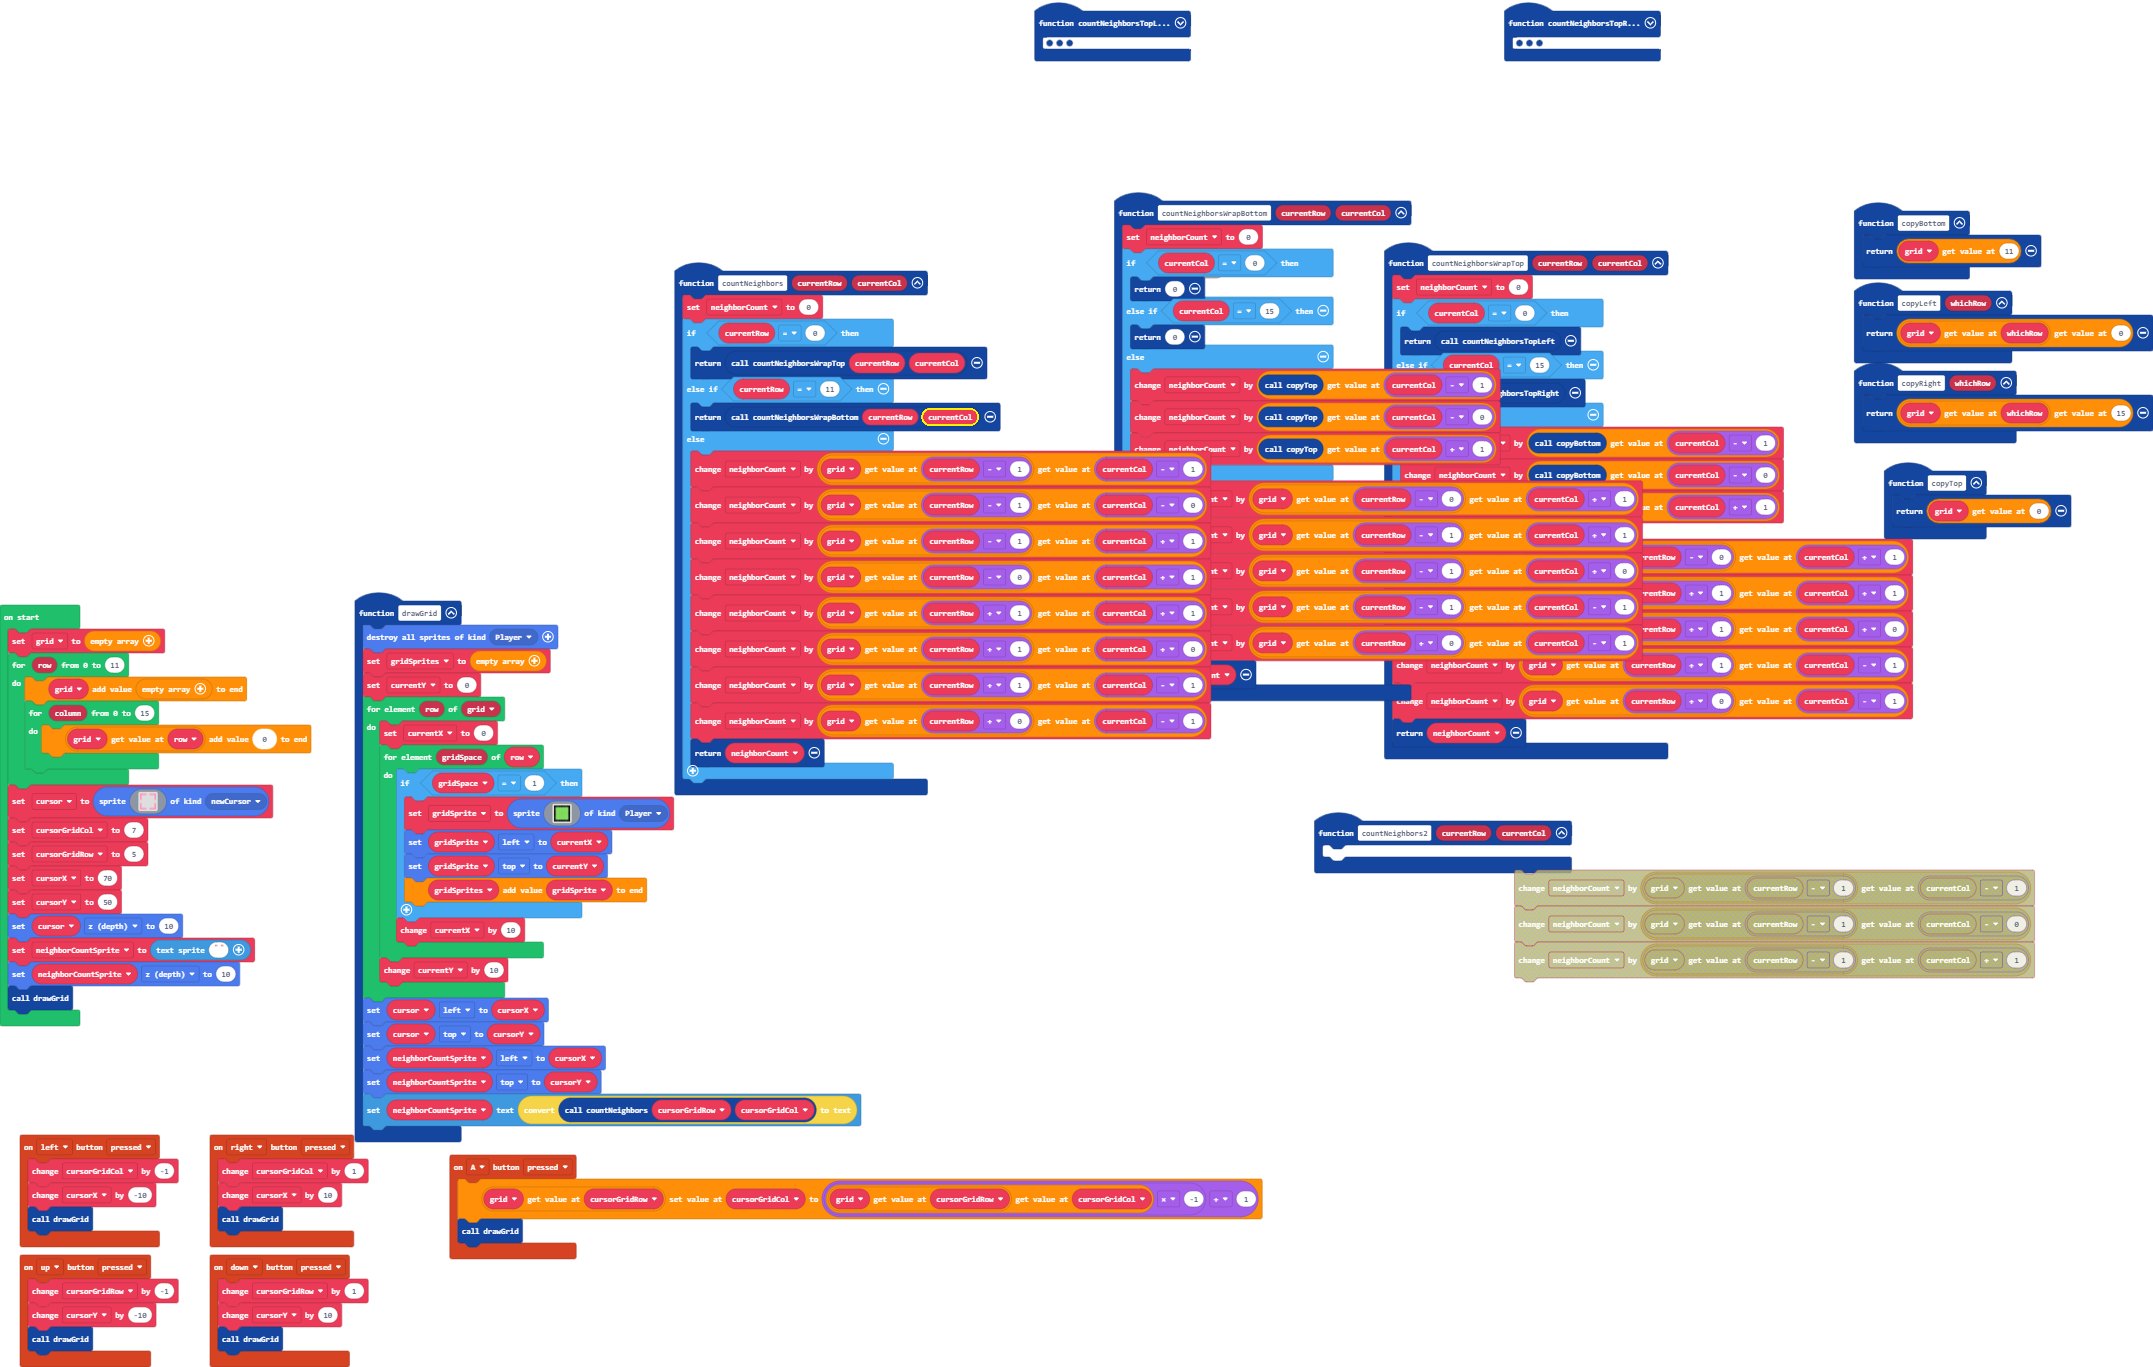
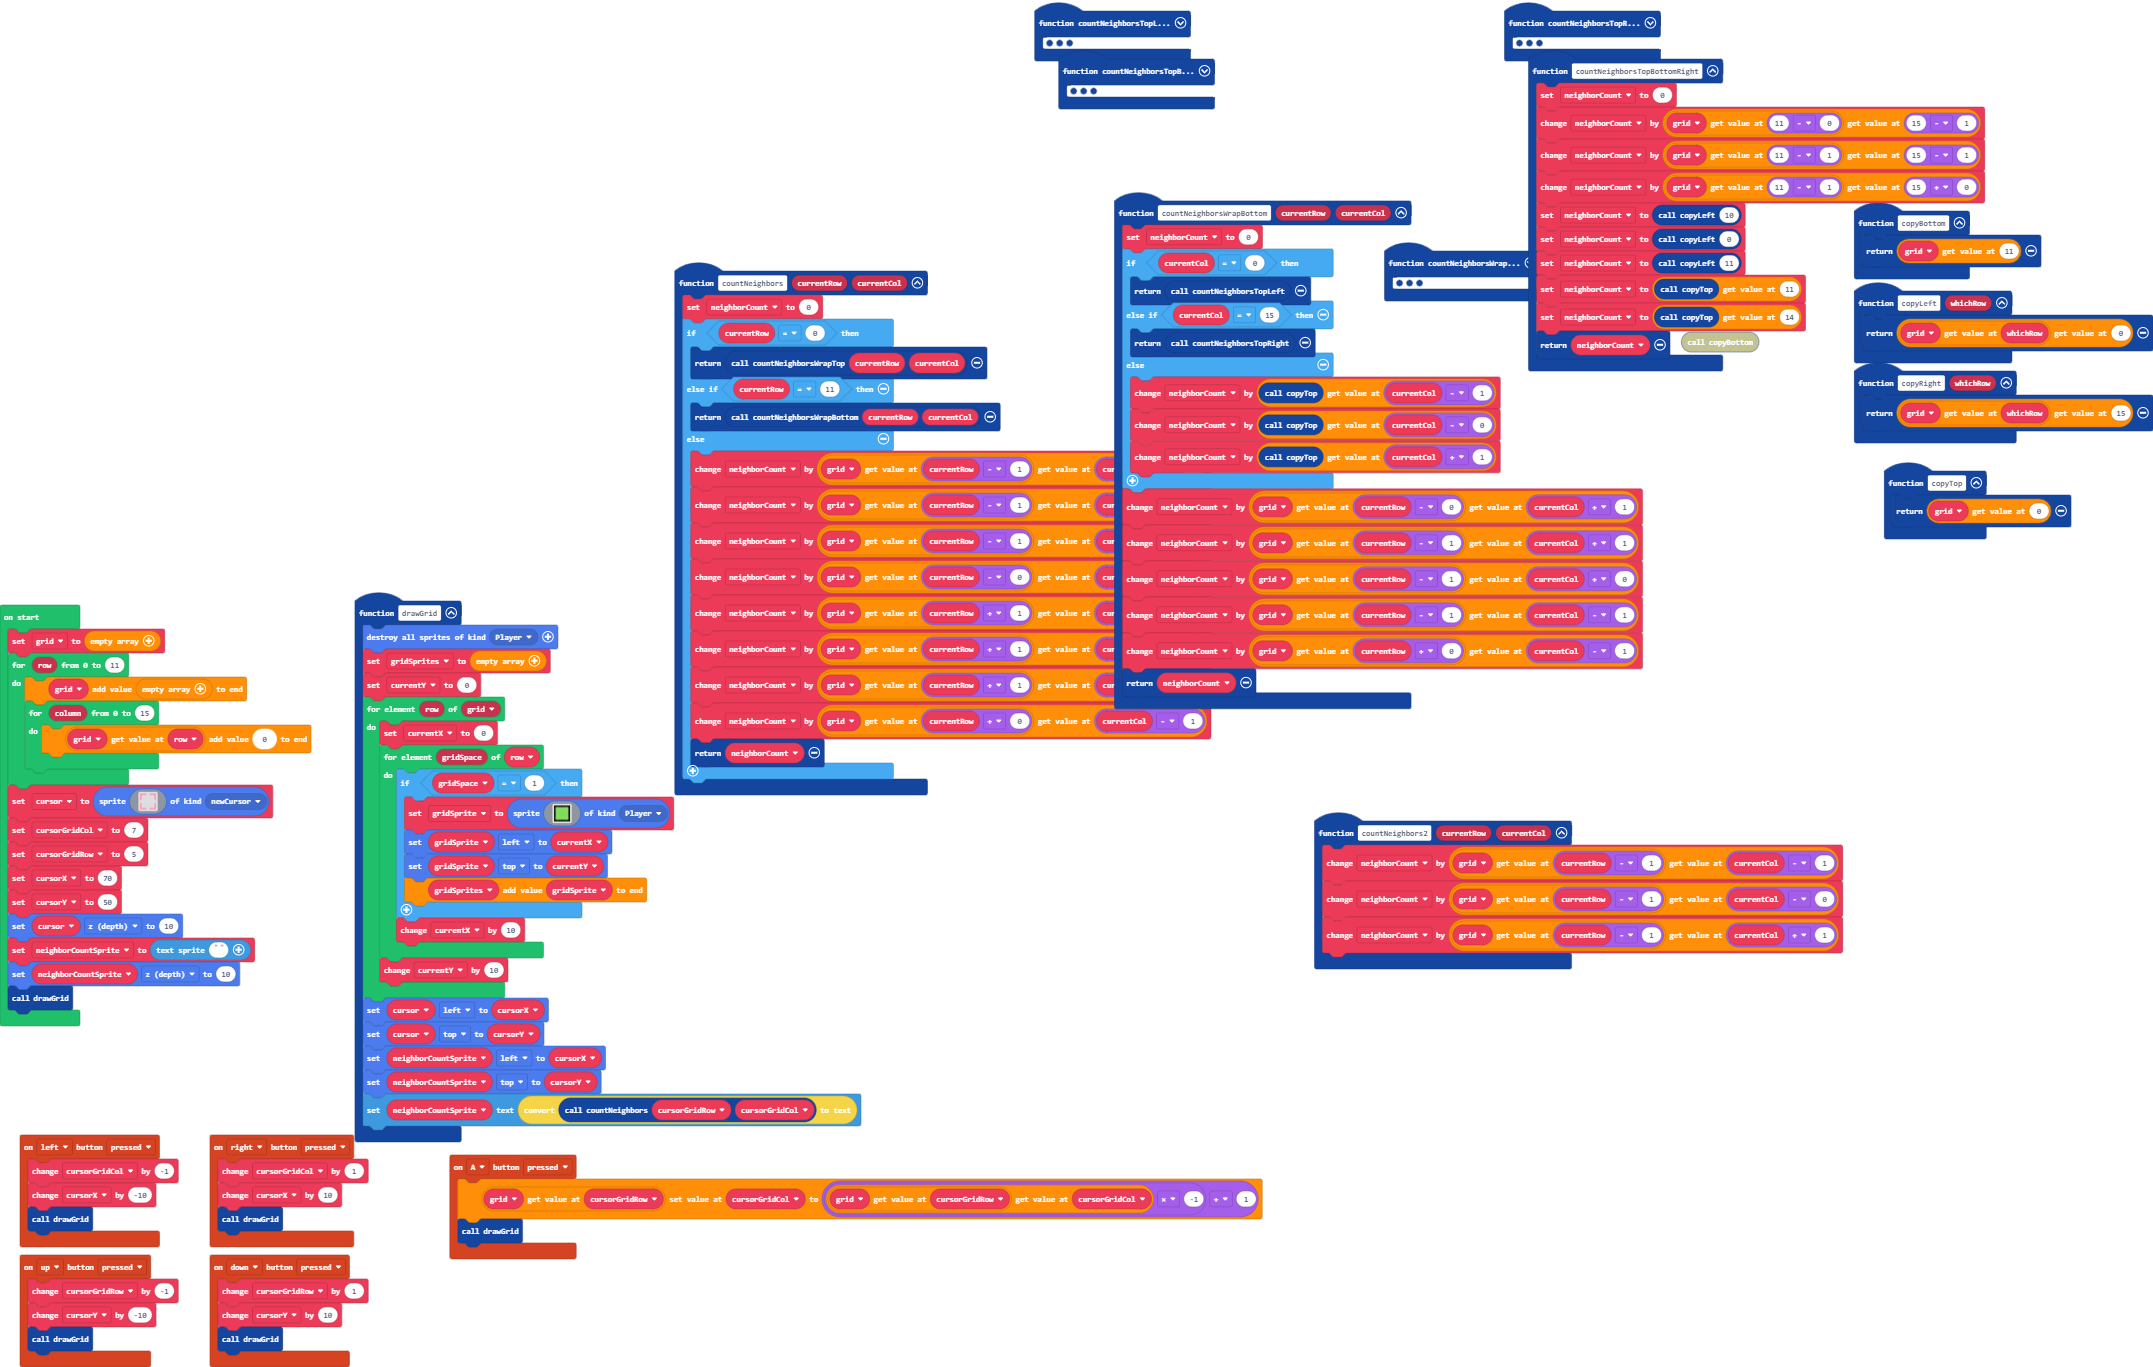
wrap bottom left and right

Changed region(s): [[0.4979, 0.0307, 0.9336, 0.553], [0.5913, 0.6145, 0.9647, 0.7374], [0.4668, 0.0307, 0.5601, 0.0922]]

diff --git a/main.ts b/main.ts
@@ -2,6 +2,18 @@ namespace SpriteKind {
     export const cursor = SpriteKind.create()
     export const newCursor = SpriteKind.create()
 }
+function countNeighborsTopBottomRight () {
+    neighborCount = 0
+    neighborCount += grid[11 - 0][15 - 1]
+    neighborCount += grid[11 - 1][15 - 1]
+    neighborCount += grid[11 - 1][15 + 0]
+    neighborCount = copyLeft(10)
+    neighborCount = copyLeft(0)
+    neighborCount = copyLeft(11)
+    neighborCount = copyTop()[11]
+    neighborCount = copyTop()[14]
+    return neighborCount
+}
 controller.up.onEvent(ControllerButtonEvent.Pressed, function () {
     cursorGridRow += -1
     cursorY += -10
@@ -17,13 +29,27 @@ controller.left.onEvent(ControllerButtonEvent.Pressed, function () {
     drawGrid()
 })
 function countNeighbors2 (currentRow: number, currentCol: number) {
-	
+    neighborCount += grid[currentRow - 1][currentCol - 1]
+    neighborCount += grid[currentRow - 1][currentCol - 0]
+    neighborCount += grid[currentRow - 1][currentCol + 1]
 }
 function copyBottom () {
     return grid[11]
 }
 function copyRight (whichRow: number) {
     return grid[whichRow][15]
+}
+function countNeighborsTopBottomLeft () {
+    neighborCount = 0
+    neighborCount += grid[11 - 0][0 + 1]
+    neighborCount += grid[11 - 1][0 + 0]
+    neighborCount += grid[11 - 1][0 + 1]
+    neighborCount = copyRight(10)
+    neighborCount = copyRight(0)
+    neighborCount = copyRight(11)
+    neighborCount = copyTop()[0]
+    neighborCount = copyTop()[1]
+    return neighborCount
 }
 controller.right.onEvent(ControllerButtonEvent.Pressed, function () {
     cursorGridCol += 1
@@ -135,9 +161,9 @@ function copyLeft (whichRow: number) {
 function countNeighborsWrapBottom (currentRow: number, currentCol: number) {
     neighborCount = 0
     if (currentCol == 0) {
-        return 0
+        return countNeighborsTopLeft()
     } else if (currentCol == 15) {
-        return 0
+        return countNeighborsTopRight()
     } else {
         neighborCount += copyTop()[currentCol - 1]
         neighborCount += copyTop()[currentCol - 0]
@@ -153,11 +179,11 @@ function countNeighborsWrapBottom (currentRow: number, currentCol: number) {
 function copyTop () {
     return grid[0]
 }
-let neighborCount = 0
 let gridSprite: Sprite = null
 let currentX = 0
 let currentY = 0
 let gridSprites: Sprite[] = []
+let neighborCount = 0
 let neighborCountSprite: TextSprite = null
 let cursorY = 0
 let cursorX = 0
